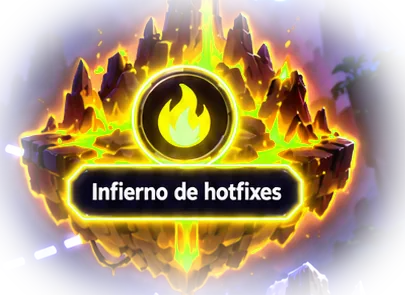
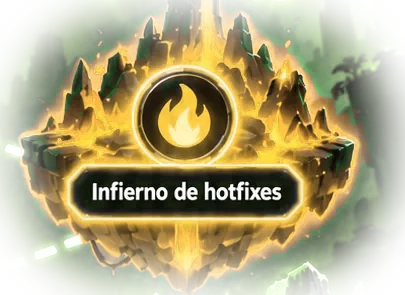
feat(game): world 5 is The Arena
Named for its gladiators rather than its lightning hazard, with a shield
icon; its island and preview are warmed to sand and gold.

diff --git a/src/game/strings.ts b/src/game/strings.ts
@@ -207,8 +207,8 @@ const en = {
   world3Text: 'Water. Vikings raid from the sea; puddles slow you down.',
   world4Name: 'Legacy Jungle',
   world4Text: 'Nature. Spiders and snapping plants among the thorns.',
-  world5Name: 'Storm Cluster',
-  world5Text: 'Lightning. Gladiators under a storm; bolts strike after a warning.',
+  world5Name: 'The Arena',
+  world5Text: 'Gladiators on the sand, under the wrath of the gods: bolts strike after a warning.',
   world6Name: 'The Forge',
   world6Text: 'Sparks. Robots whose shots bounce off the walls.',
   world7Name: 'Haunted Servers',
@@ -441,8 +441,8 @@ const es: Record<Key, string> = {
   world3Text: 'Agua. Vikingos que llegan por mar; los charcos te frenan.',
   world4Name: 'Jungla legacy',
   world4Text: 'Naturaleza. Arañas y plantas carnívoras entre las zarzas.',
-  world5Name: 'Clúster de tormentas',
-  world5Text: 'Rayo. Gladiadores bajo la tormenta; los rayos avisan antes de caer.',
+  world5Name: 'La Arena',
+  world5Text: 'Gladiadores sobre la arena, bajo la ira de los dioses: los rayos avisan antes de caer.',
   world6Name: 'La Forja',
   world6Text: 'Chispas. Robots cuyos disparos rebotan en las paredes.',
   world7Name: 'Servidores encantados',

diff --git a/src/game/main.ts b/src/game/main.ts
@@ -83,7 +83,7 @@ const bestLine = (world = save.world) => {
   return best.room ? t('best', { room: best.room }) : '';
 };
 const worldName = (n: number) => t(`world${n}Name` as Key);
-const WORLD_ICON = ['🐞', '🔥', '💧', '🍃', '⚡', '✨', '👻', '💗'];
+const WORLD_ICON = ['🐞', '🔥', '💧', '🍃', '🛡', '✨', '👻', '💗'];
 const coinsLine = (n = save.coins) => `<span class="coin">🪙</span> ${Math.floor(n)}`;
 
 /** Banks the coins and the record; returns the world unlocked by this run, if any. */
